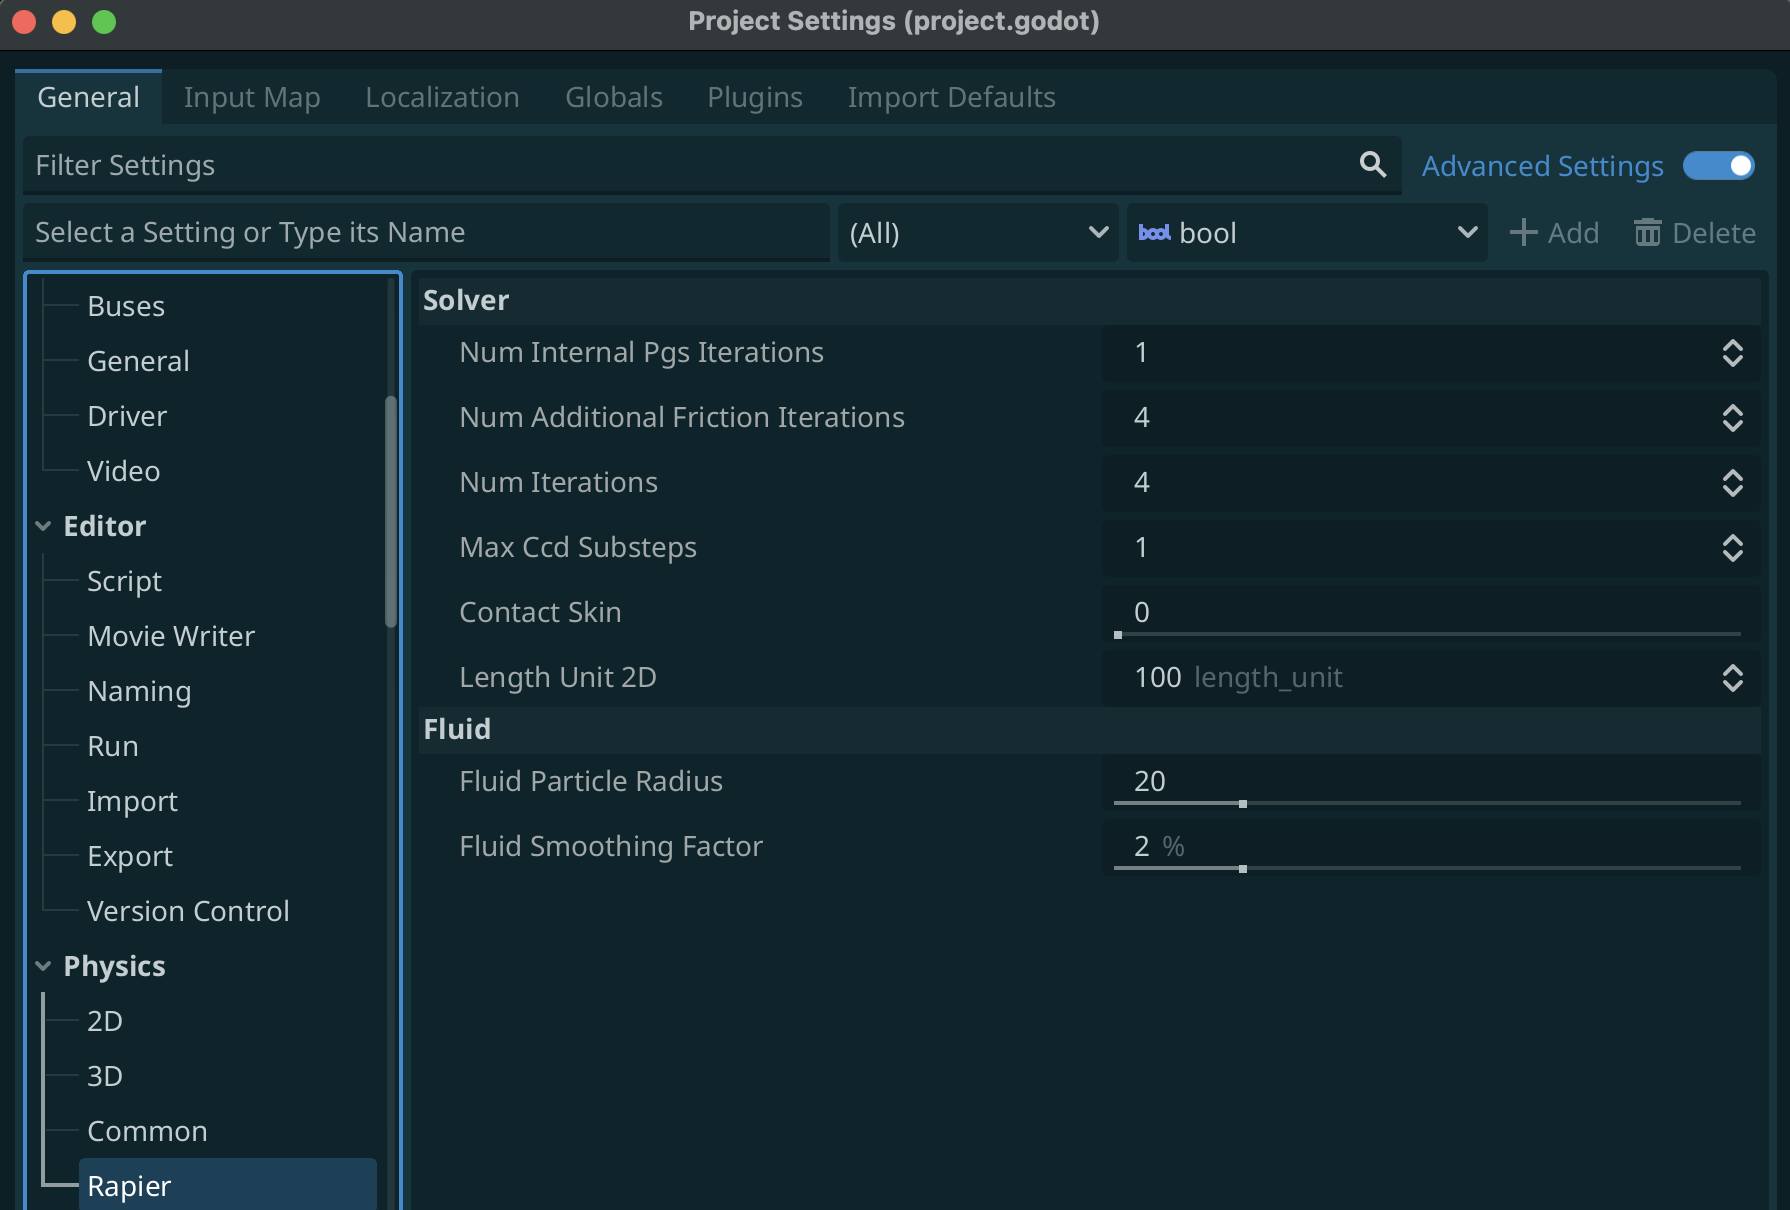
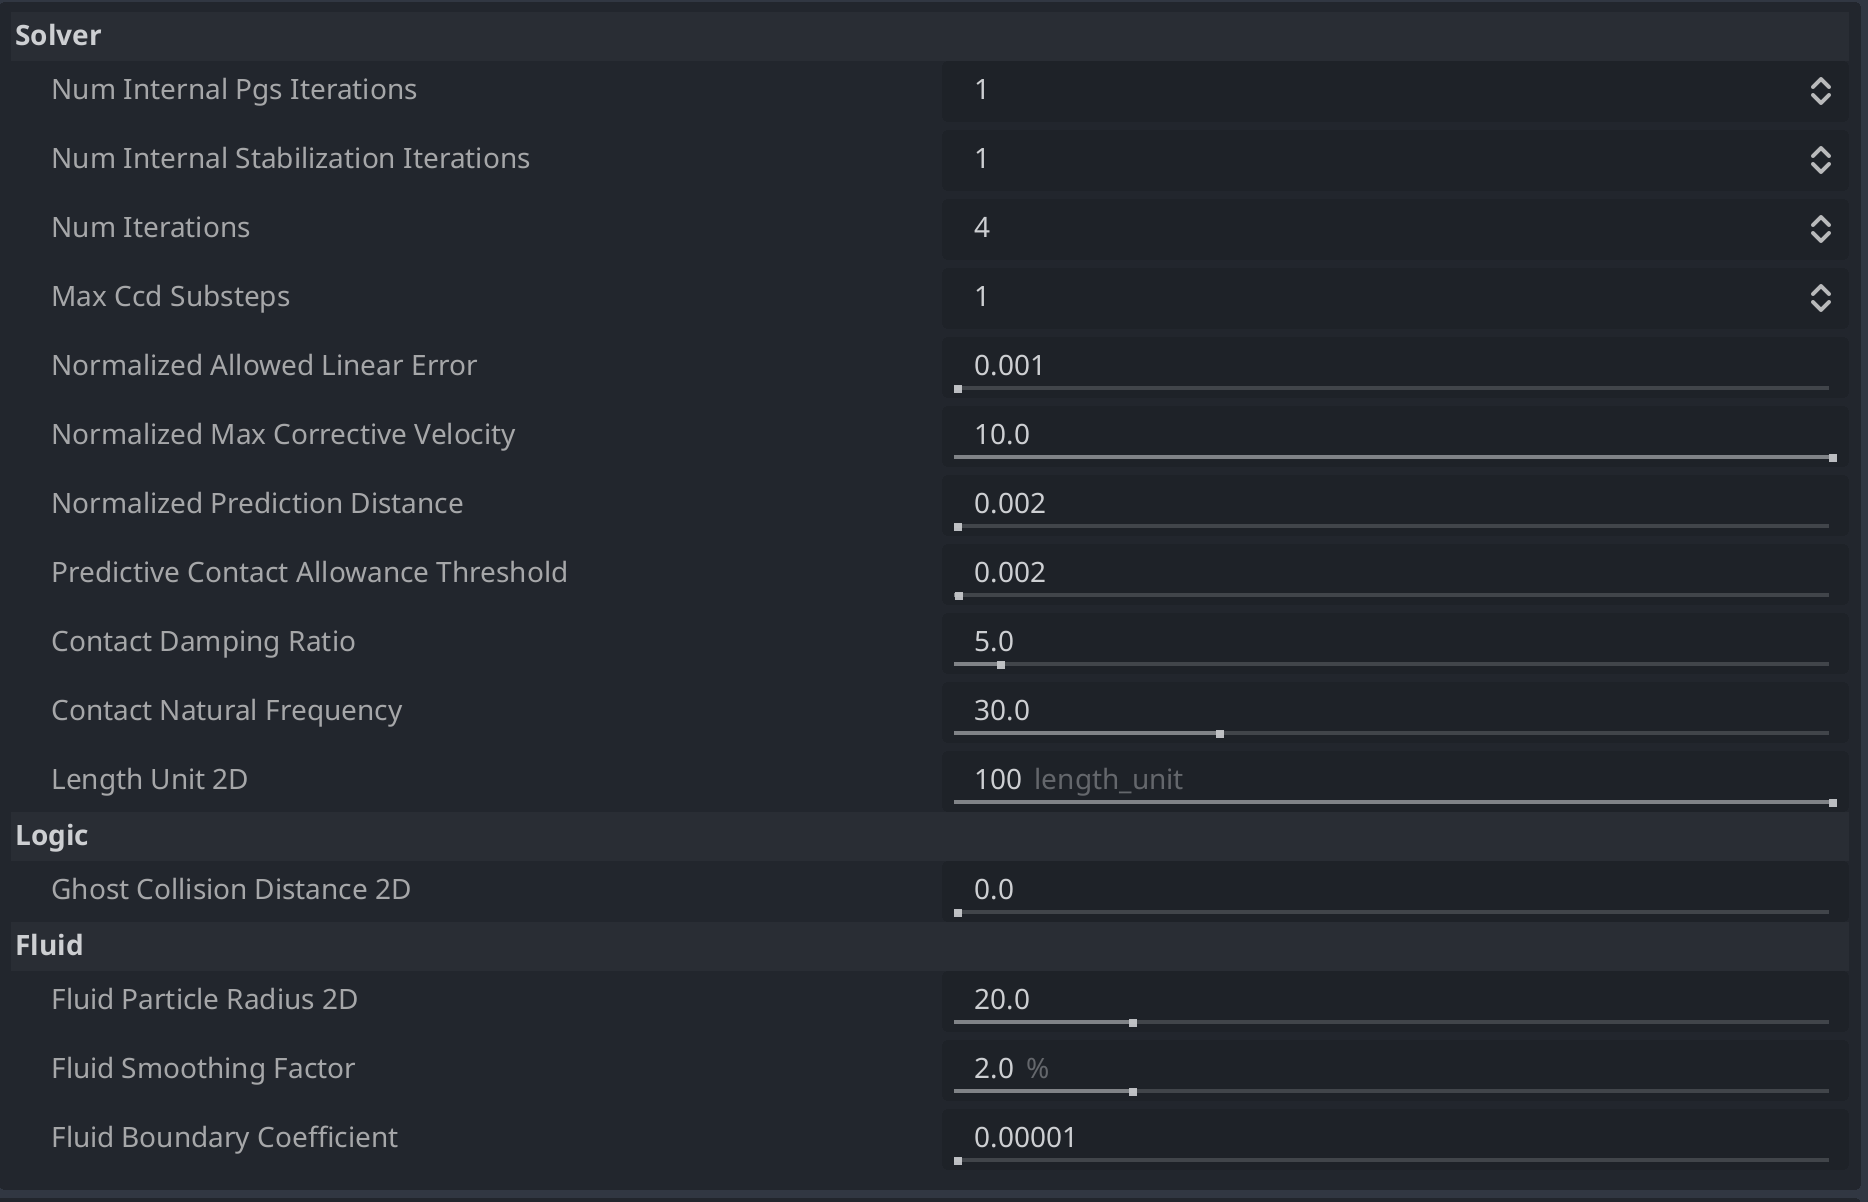
update project settings docs

diff --git a/docs/documentation/project-settings.md b/docs/documentation/project-settings.md
@@ -8,18 +8,33 @@ There are some options which can be configured for the Rapier library that chang
 
 ![settings](/img/project-settings/settings.png)
 
-- **Num Internal Pgs Iterations**: Number of internal Project Gauss Seidel (PGS) iterations run at each solver iteration.
-- **Num Additional Friction Iterations**: Number of addition friction resolution iteration run during the last solver sub-step.
-- **Num Iterations**:  The number of solver iterations run by the constraints solver for calculating forces
-- **Max Ccd Sub Steps**: Maximum number of sub steps performed by the solver.
-- **Contact Skin**: A skin that is added to each shape. This can also be added individually to bodies by calling:
-  ```js
-  var contact_skin = 0.1 # Any value
-  RapierPhysicsServer2D.body_set_extra_param(body_rid, 0, contact_skin)
-  # or
-  RapierPhysicsServer3D.body_set_extra_param(body_rid, 0, contact_skin)
-  ````
-- **Length Unit 2D**: The approximate size of most dynamic objects in the scene. For 2D it is **100** as gravity in Godot is **980**, and in real life it is **9.8**.
-- **Length Unit 3D**: The approximate size of most dynamic objects in the scene. For 3D it is **1** as gravity in Godot is **9.8**, and in real life it is **9.8**.
-- **Fluid Particle Radius**: The Particle Radius used for each Particle when simulating Fluids. For 2D it defaults to **20** and for 3D it defaults to **0.5**
-- **Fluid Smoothing Factor**: The Smoothing Factor used when simulating Fluids.
+## Solver
+
+- **Num Internal Pgs Iterations**: Number of internal Project Gauss Seidel (PGS) iterations run at each solver iteration (default: 1).
+- **Num Internal Stabilization Iterations**: The number of stabilization iterations run at each solver iterations (default: 1).
+- **Num Iterations**: The number of solver iterations run by the constraints solver for calculating forces (default: 4).
+  Higher values produce more accurate and stable simulations at the cost of performance.
+  - 4 (default): Good balance for most games
+  - 8-12: Use for demanding scenarios (stacks of objects, complex machinery)
+  - 1-2: Use if performance is critical and accuracy can be sacrificed
+- **Max Ccd Sub Steps**: Maximum number of substeps performed by the  solver (default: 1).
+- **Normalized Allowed Linear Error**: Amount of penetration the engine won’t attempt to correct (default: 0.001). This value is implicitly scaled by *length_unit*.
+- **Normalized Max Corrective Velocity**: Maximum amount of penetration the solver will attempt to resolve in one timestep (default: 10.0). This value is implicitly scaled by *length_unit*.
+- **Normalized Prediction Distance**: The maximal distance separating two objects that will generate predictive contacts (default: 0.002). This value is implicitly scaled by *length_unit*.
+- **Predictive Contact Allowance Threshold**: Any given "contact point" may actually be a predictive point-- these points do not actually represent a contact for this frame. (default: 0.002) These false contacts are pruned out by up to the given threshold. This value is implicitly scaled by *length_unit*.
+- **Contact Damping Ratio**: > 0: The damping ratio used by the springs for contact constraint stabilization. Larger values make the constraints more compliant (allowing more visible penetrations before stabilization). (default 5.0).
+- **Contact Natural Frequency**: > 0: the natural frequency used by the springs for contact constraint regularization.
+
+  Increasing this value will make it so that penetrations get fixed more quickly at the expense of potential jitter effects due to overshooting. In order to make the simulation look stiffer, it is recommended to increase the *contact_damping_ratio* instead of this value. (default: 30.0).
+- **Length Unit 2D**: The approximate size of most dynamic objects in the scene. For 2D 100 pixels equal to 1 meter, as gravity in Godot is 980, and in real life it is 9.8. (default 100)
+- **Length Unit 3D**: The approximate size of most dynamic objects in the scene. For 3D 1 pixel is equal to 1 meter, as gravity in Godot is 9.8, and in real life it is 9.8. (default 1)
+
+## Logic
+
+- **Ghost Collision Distance 2D**: The algorithm that prunes *ghost contacts* is applied only for contacts below this distance. (default 0.15)
+
+## Fluid
+
+- **Fluid Particle Radius**: The Particle Radius used for each Particle when simulating Fluids. (default 2D = 20.0 and 3D = 0.5)
+- **Fluid Smoothing Factor**: The Smoothing Factor used when simulating Fluids. (default 2.0)
+- **Fluid Boundary Coefficient**: The coefficient that is multiplied with the force that liquids apply to boundaries before they are applied. Generally fluids have very high density (eg. 1000), and in Godot object have mass of 1 as default, as such this coefficient is a way to translate between the two. Without this, the fluid throws objects around at very high speeds. (default 0.00001)
